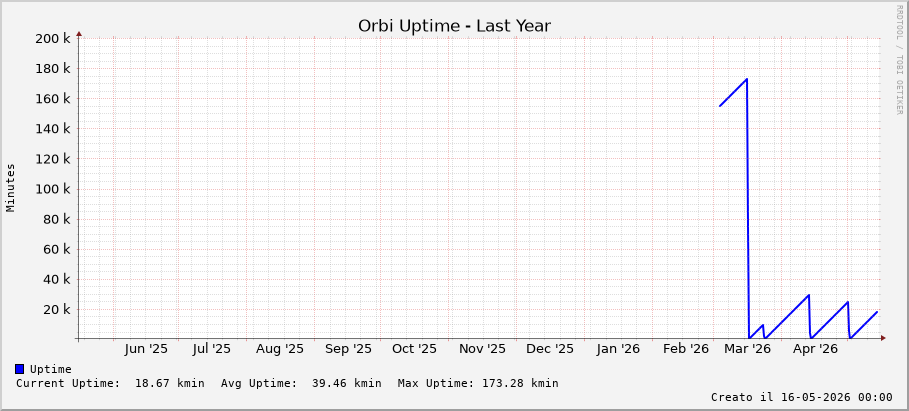
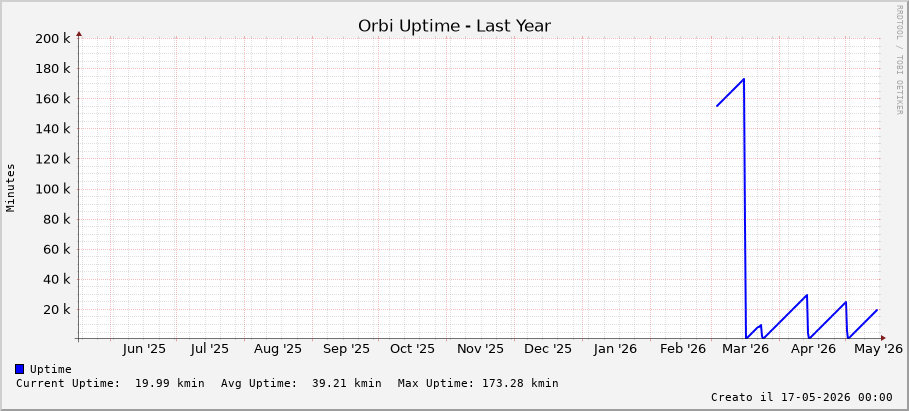
RBR50 update 2026-05-17 00:00:33

diff --git a/index.html b/index.html
@@ -41,38 +41,38 @@
 
 <div class="graph-container">
     <h2>Ultime 4 Ore</h2>
-    <img class="graph" src="images/orbi_traffic_1h.png?v=1778968531" alt="Traffico Ultima Ora">
-    <img class="graph" src="images/orbi_uptime_1h.png?v=1778968531" alt="Uptime Ultima Ora">
+    <img class="graph" src="images/orbi_traffic_1h.png?v=1778968833" alt="Traffico Ultima Ora">
+    <img class="graph" src="images/orbi_uptime_1h.png?v=1778968833" alt="Uptime Ultima Ora">
 </div>
 
 <div class="graph-container">
     <h2>Ultimo Giorno</h2>
-    <img class="graph" src="images/orbi_traffic_1d.png?v=1778968531" alt="Traffico Ultimo Giorno">
-    <img class="graph" src="images/orbi_uptime_1d.png?v=1778968531" alt="Uptime Ultimo Giorno">
+    <img class="graph" src="images/orbi_traffic_1d.png?v=1778968833" alt="Traffico Ultimo Giorno">
+    <img class="graph" src="images/orbi_uptime_1d.png?v=1778968833" alt="Uptime Ultimo Giorno">
 </div>
 
 <div class="graph-container">
     <h2>Ultima Settimana</h2>
-    <img class="graph" src="images/orbi_traffic_1w.png?v=1778968531" alt="Traffico Ultima Settimana">
-    <img class="graph" src="images/orbi_uptime_1w.png?v=1778968531" alt="Uptime Ultima Settimana">
+    <img class="graph" src="images/orbi_traffic_1w.png?v=1778968833" alt="Traffico Ultima Settimana">
+    <img class="graph" src="images/orbi_uptime_1w.png?v=1778968833" alt="Uptime Ultima Settimana">
 </div>
 
 <div class="graph-container">
     <h2>Ultimo Mese</h2>
-    <img class="graph" src="images/orbi_traffic_1m.png?v=1778968531" alt="Traffico Ultimo Mese">
-    <img class="graph" src="images/orbi_uptime_1m.png?v=1778968531" alt="Uptime Ultimo Mese">
+    <img class="graph" src="images/orbi_traffic_1m.png?v=1778968833" alt="Traffico Ultimo Mese">
+    <img class="graph" src="images/orbi_uptime_1m.png?v=1778968833" alt="Uptime Ultimo Mese">
 </div>
 
 <div class="graph-container">
     <h2>Ultimo Anno</h2>
-    <img class="graph" src="images/orbi_traffic_1y.png?v=1778968531" alt="Traffico Ultimo Anno">
-    <img class="graph" src="images/orbi_uptime_1y.png?v=1778968531" alt="Uptime Ultimo Anno">
+    <img class="graph" src="images/orbi_traffic_1y.png?v=1778968833" alt="Traffico Ultimo Anno">
+    <img class="graph" src="images/orbi_uptime_1y.png?v=1778968833" alt="Uptime Ultimo Anno">
 </div>
 
 <div class="graph-container">
     <h2>Ultimi 5 Anni</h2>
-    <img class="graph" src="images/orbi_traffic_5y.png?v=1778968531" alt="Traffico Ultimi 5 Anni">
-    <img class="graph" src="images/orbi_uptime_5y.png?v=1778968531" alt="Uptime Ultimi 5 Anni">
+    <img class="graph" src="images/orbi_traffic_5y.png?v=1778968833" alt="Traffico Ultimi 5 Anni">
+    <img class="graph" src="images/orbi_uptime_5y.png?v=1778968833" alt="Uptime Ultimi 5 Anni">
 </div>
 
 <div class="footer">
